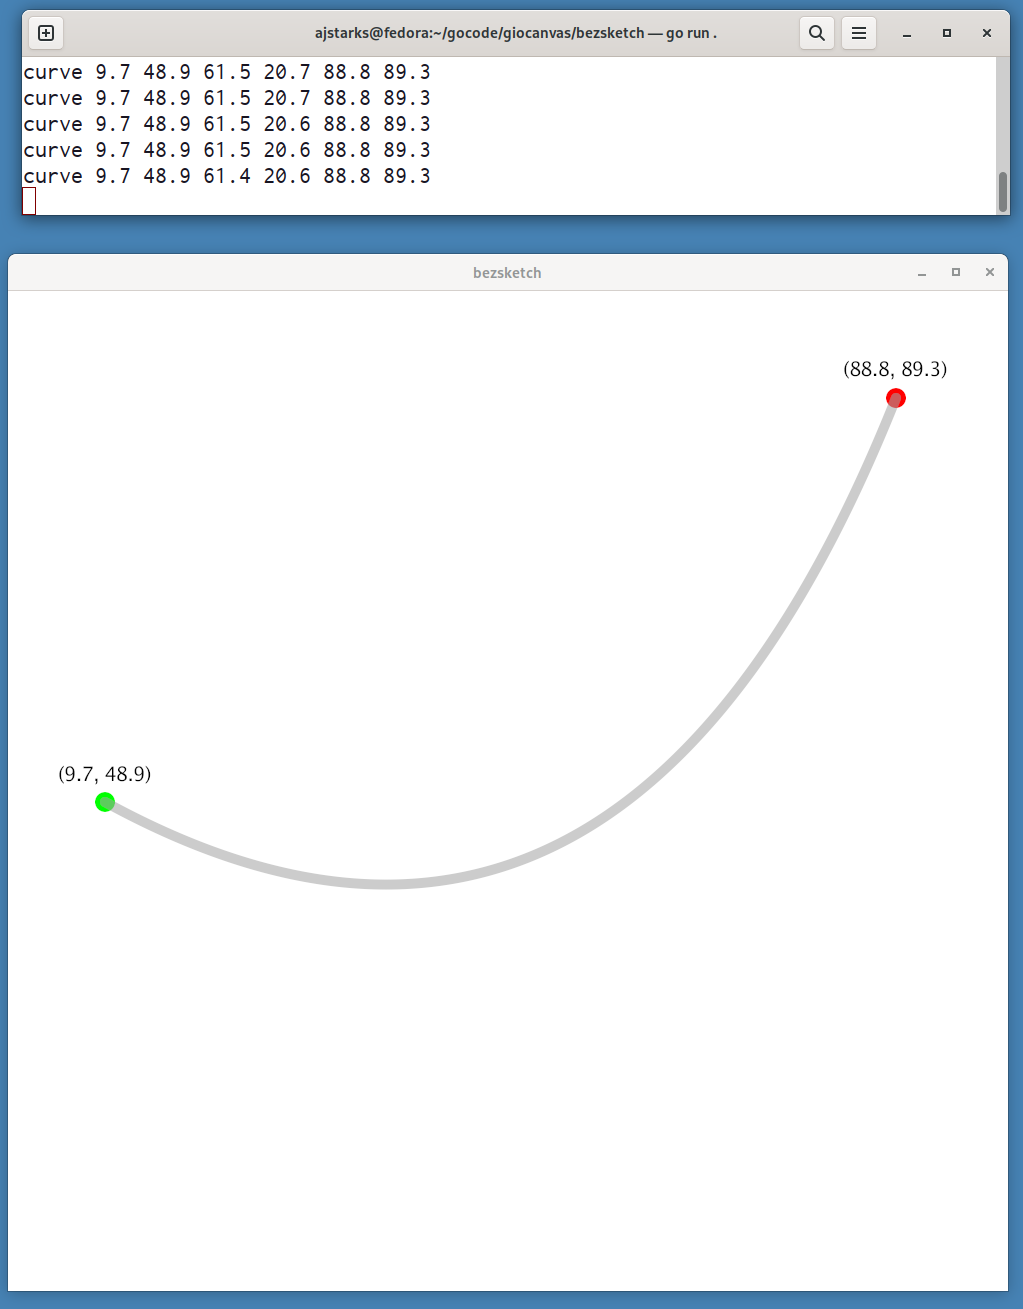
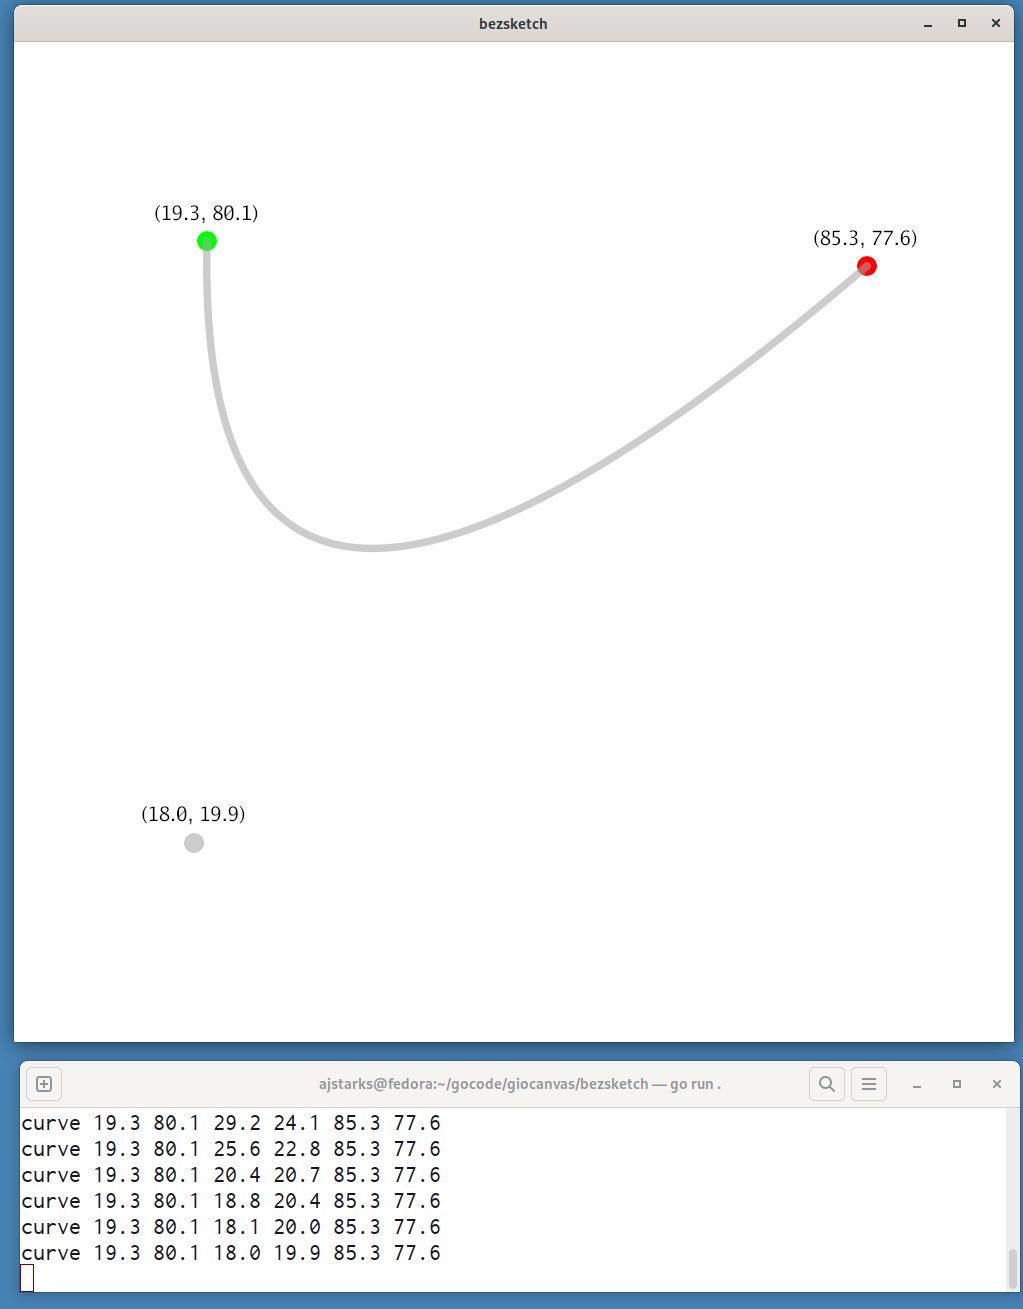
add control point to bezsketch

diff --git a/bezsketch/main.go b/bezsketch/main.go
@@ -86,7 +86,8 @@ func bezsketch(w *app.Window, width, height float32) error {
 			pointer.InputOp{Tag: pressed, Grab: false, Types: pointer.Press | pointer.Drag}.Add(canvas.Context.Ops)
 			textcoord(canvas, bx, by, 2, beginColor)
 			textcoord(canvas, ex, ey, 2, endColor)
-			canvas.QuadStrokedCurve(bx, by, cx, cy, ex, ey, 1, curveColor)
+			textcoord(canvas, cx, cy, 2, curveColor)
+			canvas.QuadStrokedCurve(bx, by, cx, cy, ex, ey, 0.75, curveColor)
 			fmt.Printf("curve %.1f %.1f %.1f %.1f %.1f %.1f\n", bx, by, cx, cy, ex, ey)
 			pctmousePos(e.Queue, width, height)
 			cx, cy = mouseX, mouseY
